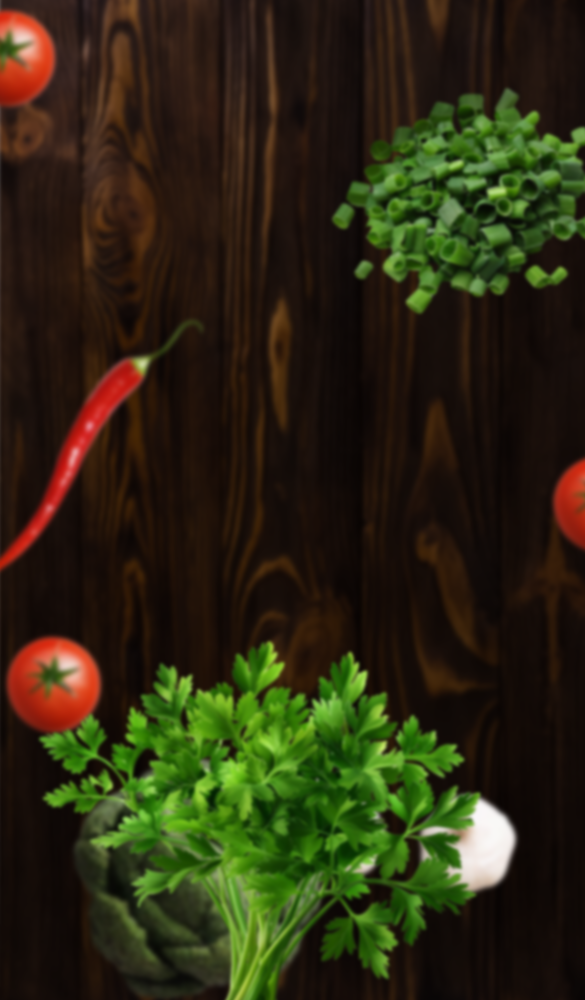
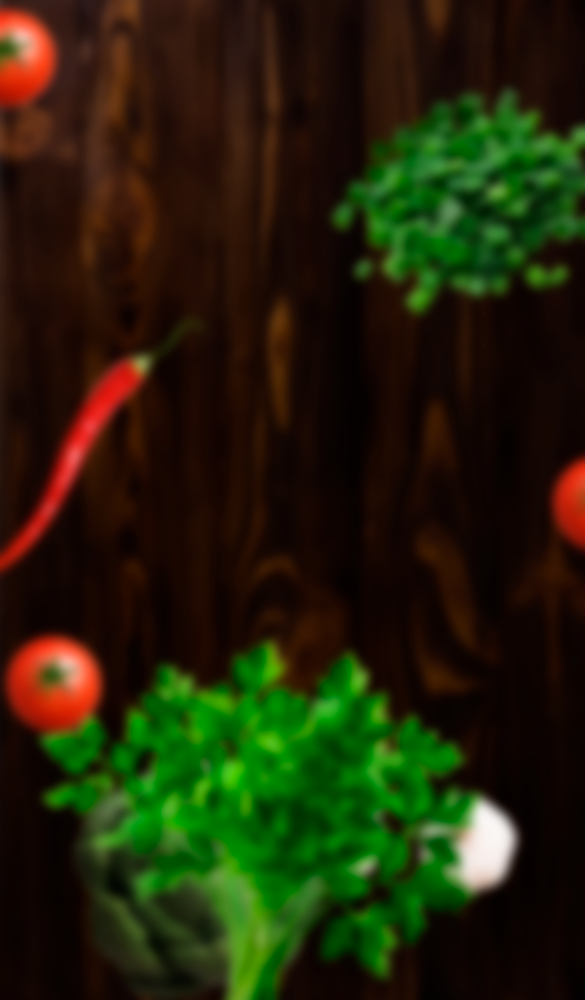
alo5

diff --git a/styles.css b/styles.css
@@ -472,7 +472,7 @@ header {
 }
 
 .container {
-    background: url('./images/main--fon.gif');
+   background: url('./images/fon4.png');
     background-size: cover;
     background-repeat: no-repeat;
     margin: 0%;
